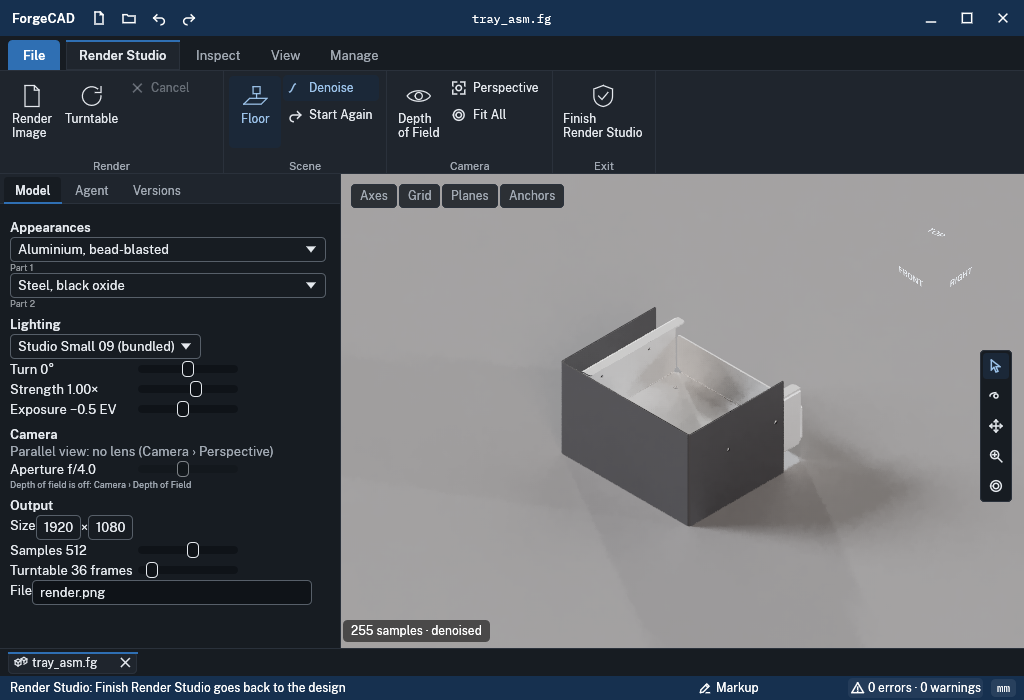
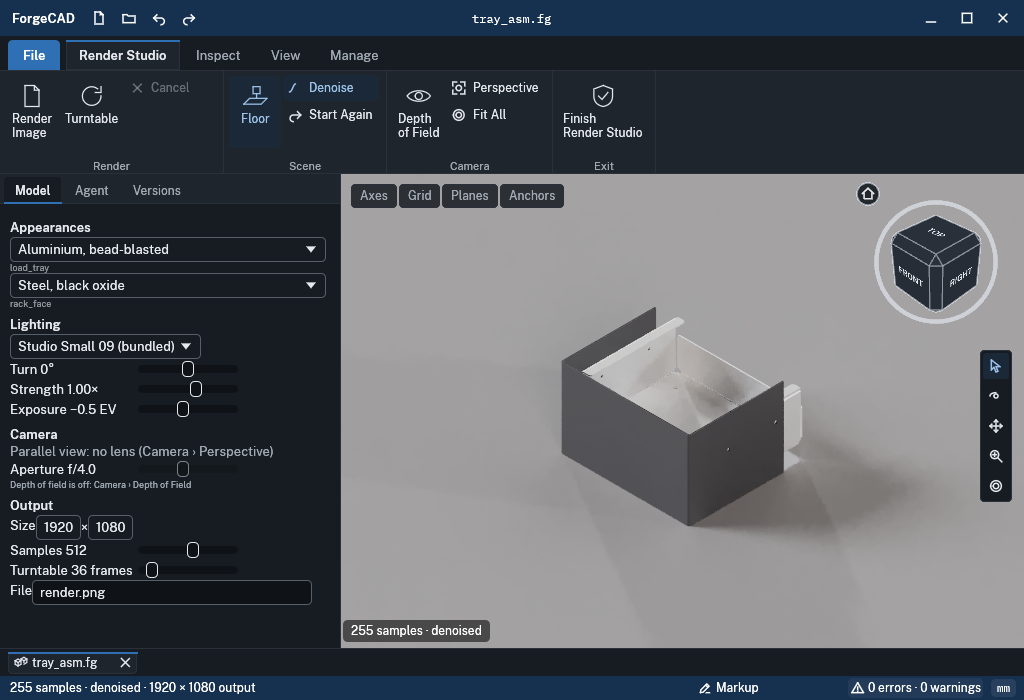
Render Studio: the view cube laid over the traced picture (Renderer::cube_only), parts named by their files, a status line of samples and output size
Claude-Session: https://claude.ai/code/session_01WJtawz369LCQvS1hpKDMaJ

diff --git a/interface/forge-render/src/gui_studio.rs b/interface/forge-render/src/gui_studio.rs
@@ -15,6 +15,9 @@ use crate::studio::scene::{Built, Instance};
 use crate::studio::{Backdrop, Settings, View};
 
 pub struct StudioHost {
+    /// The view cube alone, over transparent, laid on the traced picture.
+    cube: crate::render::Offscreen,
+    cube_tex: egui::TextureId,
     live: Live,
     queue: Queue,
     tex: egui::TextureId,
@@ -74,13 +77,15 @@ impl Gui {
         if !active {
             if let Some(h) = self.studio.take() {
                 self.egui.free_texture(&h.tex);
+                self.egui.free_texture(&h.cube_tex);
+                self.shell.view_over_tex = None;
                 if let Some(v) = &self.view {
                     self.shell.view_tex = Some(v.tex);
                 }
             }
             return false;
         }
-        let Some(v) = &self.view else {
+        let Some(v) = &mut self.view else {
             return false;
         };
         let size = v.size;
@@ -96,6 +101,8 @@ impl Gui {
                 queue: Queue::default(),
                 tex,
                 tex_size: size,
+                cube: crate::render::Offscreen::new(&self.device, size),
+                cube_tex: egui::TextureId::default(),
                 env: Env::new(8, 4, vec![[0.0; 3]; 32]),
                 env_key: None,
                 scene_key: None,
@@ -148,10 +155,28 @@ impl Gui {
             st.version,
         );
         if host.scene_key != Some(key) {
-            st.names = (0..parts.len())
-                .map(|k| match (parts.len(), &name) {
-                    (1, n) if !n.is_empty() => n.clone(),
-                    _ => format!("Part {}", k + 1),
+            // an assembly's part by the file of an occurrence of it; one part by the document
+            let mut names: Vec<Option<String>> = vec![None; parts.len()];
+            if let Some((occ, _)) = &self.fg_asm {
+                for o in occ {
+                    let Some(pl) = o.placement else { continue };
+                    let Some(p) = v.scene.placements.get(pl) else {
+                        continue;
+                    };
+                    let stem = std::path::Path::new(&o.file)
+                        .file_stem()
+                        .map_or_else(|| o.file.clone(), |s| s.to_string_lossy().into_owned());
+                    names.get_mut(p.part as usize).map(|n| n.get_or_insert(stem));
+                }
+            }
+            st.names = names
+                .into_iter()
+                .enumerate()
+                .map(|(k, n)| {
+                    n.unwrap_or_else(|| match (parts.len(), &name) {
+                        (1, n) if !n.is_empty() => n.clone(),
+                        _ => format!("Part {}", k + 1),
+                    })
                 })
                 .collect();
             st.looks.resize(parts.len(), None);
@@ -238,6 +263,27 @@ impl Gui {
             host.tex_size = host.live.tracer.size;
         }
         st.samples = host.live.samples();
+        // the view cube over the picture, as the shaded view has it
+        if host.cube_tex == egui::TextureId::default()
+            || host.cube.texture.size().width != size.0
+            || host.cube.texture.size().height != size.1
+        {
+            if host.cube_tex != egui::TextureId::default() {
+                self.egui.free_texture(&host.cube_tex);
+            }
+            host.cube = crate::render::Offscreen::new(&self.device, size);
+            host.cube_tex = self.egui.register_native_texture(
+                &self.device,
+                &super::raw_view(&host.cube),
+                wgpu::FilterMode::Nearest,
+            );
+        }
+        let overlay = crate::render::Overlay {
+            cube: Some((v.nav.cube_place(), v.nav.cube_hover)),
+            ..crate::render::Overlay::default()
+        };
+        v.renderer.cube_only(&host.cube.view, &v.nav.camera, &overlay);
+        let cube_tex = host.cube_tex;
         let tex = host.tex;
 
         // final renders
@@ -307,6 +353,7 @@ impl Gui {
         self.studio = Some(host);
         self.shell.studio = std::mem::take(st);
         self.shell.view_tex = Some(tex);
+        self.shell.view_over_tex = Some(cube_tex);
         if let Some(s) = status {
             self.shell.status = s;
         }

diff --git a/interface/forge-render/src/render.rs b/interface/forge-render/src/render.rs
@@ -2502,6 +2502,48 @@ impl Renderer {
     }
 
     /// Culls, draws into `target` and submits, the numbers overlay on top if given.
+    /// The view cube alone, over transparent black, into `target` (this renderer's format and
+    /// size): what the Render Studio lays over its traced picture. The globals are the last
+    /// frame's, so call it after `frame` for the same camera.
+    pub fn cube_only(&mut self, target: &wgpu::TextureView, camera: &Camera, overlay: &Overlay) {
+        let cube_verts = self.write_cube(camera, overlay);
+        let mut encoder = self.device.create_command_encoder(&Default::default());
+        {
+            let mut pass = encoder.begin_render_pass(&wgpu::RenderPassDescriptor {
+                label: Some("cube only"),
+                color_attachments: &[Some(wgpu::RenderPassColorAttachment {
+                    view: &self.colour,
+                    depth_slice: None,
+                    resolve_target: Some(target),
+                    ops: wgpu::Operations {
+                        load: wgpu::LoadOp::Clear(wgpu::Color::TRANSPARENT),
+                        store: wgpu::StoreOp::Discard,
+                    },
+                })],
+                depth_stencil_attachment: Some(wgpu::RenderPassDepthStencilAttachment {
+                    view: &self.depth,
+                    depth_ops: Some(wgpu::Operations {
+                        load: wgpu::LoadOp::Clear(0.0),
+                        store: wgpu::StoreOp::Discard,
+                    }),
+                    stencil_ops: None,
+                }),
+                timestamp_writes: None,
+                occlusion_query_set: None,
+                multiview_mask: None,
+            });
+            if cube_verts > 0 {
+                pass.set_bind_group(0, &self.binds, &[]);
+                pass.set_bind_group(1, &self.sun.read, &[]);
+                pass.set_bind_group(2, &self.back_image.binds, &[]);
+                pass.set_pipeline(&self.cube);
+                pass.set_vertex_buffer(0, self.cube_verts.slice(..));
+                pass.draw(0..cube_verts, 0..1);
+            }
+        }
+        self.queue.submit([encoder.finish()]);
+    }
+
     pub fn frame(
         &mut self,
         target: &wgpu::TextureView,

diff --git a/interface/forge-render/src/shell/mod.rs b/interface/forge-render/src/shell/mod.rs
@@ -345,6 +345,8 @@ pub struct Shell {
     pub cube_region: Option<[i8; 3]>,
     /// The part's picture, drawn by the renderer this same frame.
     pub view_tex: Option<egui::TextureId>,
+    /// Laid over `view_tex` when an environment draws the view itself: its view cube.
+    pub view_over_tex: Option<egui::TextureId>,
     /// The view cube's words, in the view's device pixels: real type over its picture.
     pub cube_labels: Vec<crate::viewcube::Label>,
     pub cube_place: Option<crate::viewcube::Place>,
@@ -442,6 +444,7 @@ impl Default for Shell {
             cube_menu_fresh: false,
             cube_region: None,
             view_tex: None,
+            view_over_tex: None,
             cube_labels: Vec::new(),
             cube_place: None,
             camera: None,
@@ -767,6 +770,10 @@ impl Shell {
         if let Some(tex) = self.view_tex {
             let whole = Rect::from_min_max(pos2(0.0, 0.0), pos2(1.0, 1.0));
             p.image(tex, self.view_rect, whole, Color32::WHITE);
+            // what an environment lays over a picture of its own (the Render Studio's view cube)
+            if let Some(over) = self.view_over_tex {
+                p.image(over, self.view_rect, whole, Color32::WHITE);
+            }
         }
         self.view_owned = false;
         self.env_draw(ui);

diff --git a/interface/forge-render/src/shell/studio_env.rs b/interface/forge-render/src/shell/studio_env.rs
@@ -360,6 +360,26 @@ pub(super) fn browser(s: &mut Shell, ui: &mut Ui, r: Rect) -> bool {
     true
 }
 
+/// The status bar's line: the live picture's samples, then what a render would make.
+pub(super) fn status(s: &Shell) -> String {
+    let st = &s.studio;
+    let live = if st.samples == 0 {
+        "preparing".to_string()
+    } else {
+        format!(
+            "{} samples{}",
+            st.samples,
+            if st.denoise { " · denoised" } else { "" }
+        )
+    };
+    let queue = if st.queue.is_empty() {
+        String::new()
+    } else {
+        format!(" · {}", st.queue)
+    };
+    format!("{live} · {} × {} output{queue}", st.size.0, st.size.1)
+}
+
 /// The sample count over the view's lower left corner.
 pub(super) fn draw(s: &mut Shell, ui: &mut Ui, view: Rect) -> bool {
     let st = &s.studio;

diff --git a/interface/forge-render/src/shell/docs.rs b/interface/forge-render/src/shell/docs.rs
@@ -39,6 +39,7 @@ per_doc!(
         versions: super::versions::Versions,
         status: String,
         view_tex: Option<egui::TextureId>,
+        view_over_tex: Option<egui::TextureId>,
         cube_labels: Vec<crate::viewcube::Label>,
         cube_place: Option<crate::viewcube::Place>,
         camera: Option<(crate::camera::Camera, (u32, u32))>,
@@ -90,6 +91,7 @@ impl ShellDoc {
             versions: Default::default(),
             status: String::new(),
             view_tex: None,
+            view_over_tex: None,
             cube_labels: vec![],
             cube_place: None,
             camera: None,

diff --git a/interface/forge-render/src/shell/env/render.rs b/interface/forge-render/src/shell/env/render.rs
@@ -38,6 +38,10 @@ impl Environment for RenderStudio {
         content::browser(s, ui, r)
     }
 
+    fn status(&self, s: &Shell) -> Option<String> {
+        Some(content::status(s))
+    }
+
     fn draw(&self, s: &mut Shell, ui: &mut Ui, view: Rect) -> bool {
         content::draw(s, ui, view)
     }
